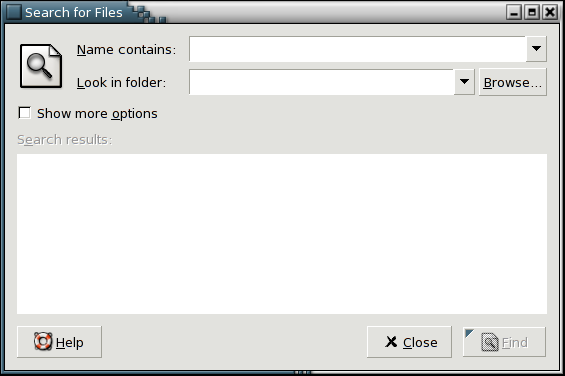
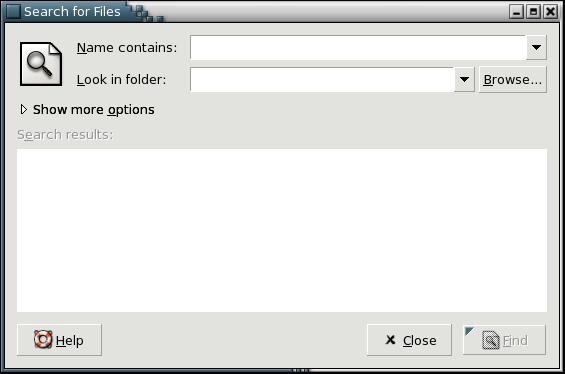
Use the new gtk expander widget.
2003-11-18  Dennis Cranston <dennis_cranston at yahoo com>

	* gsearchtool.[ch], gsearchtool-callbacks.[ch]: Use the
	new gtk expander widget.

	* help/C/figures/gnome-search-tool_window.png: Update
	accordingly.

diff --git a/gsearchtool.c b/gsearchtool.c
@@ -1305,7 +1305,7 @@ handle_search_command_stdout_io (GIOChannel 	*ioc,
 
 		gtk_window_set_default (GTK_WINDOW(interface.main_window), interface.find_button);
 		gtk_widget_set_sensitive (interface.additional_constraints, TRUE);
-		gtk_widget_set_sensitive (interface.checkbutton, TRUE);
+		gtk_widget_set_sensitive (interface.expander, TRUE);
 		gtk_widget_set_sensitive (interface.table, TRUE);
 		gtk_widget_set_sensitive (interface.find_button, TRUE);
 		gtk_widget_hide (interface.stop_button);
@@ -1488,7 +1488,7 @@ spawn_search_command (gchar *command)
 	gtk_widget_set_sensitive (interface.find_button, FALSE);
 	gtk_widget_set_sensitive (interface.results, TRUE);
 	gtk_widget_set_sensitive (interface.additional_constraints, FALSE);
-	gtk_widget_set_sensitive (interface.checkbutton, FALSE);
+	gtk_widget_set_sensitive (interface.expander, FALSE);
 	gtk_widget_set_sensitive (interface.table, FALSE);
 
 	gtk_tree_view_scroll_to_point (GTK_TREE_VIEW(interface.tree), 0, 0);
@@ -1617,7 +1617,7 @@ add_constraint (gint constraint_id, gchar *value, gboolean show_constraint)
 
 	if (show_constraint) {
 		if (GTK_WIDGET_VISIBLE (interface.additional_constraints) == FALSE) {
-			g_signal_emit_by_name (G_OBJECT(interface.checkbutton), "clicked", 0);
+			gtk_expander_set_expanded (GTK_EXPANDER (interface.expander), TRUE);
 			gtk_widget_show (interface.additional_constraints);
 		}
 	} 
@@ -1960,10 +1960,10 @@ create_main_window (void)
 	g_free (locale_string);
 	g_free (utf8_string);
 	
-	interface.checkbutton = gtk_check_button_new_with_mnemonic (_("Show more _options"));
-	gtk_box_pack_start (GTK_BOX(window), interface.checkbutton, FALSE, FALSE, 0);
-	g_signal_connect (G_OBJECT (interface.checkbutton),"clicked",
-			  G_CALLBACK (click_check_button_cb), NULL);
+	interface.expander = gtk_expander_new_with_mnemonic (_("Show more _options"));
+	gtk_box_pack_start (GTK_BOX(window), interface.expander, FALSE, FALSE, 0);
+	g_signal_connect (G_OBJECT (interface.expander),"notify::expanded",
+			  G_CALLBACK (click_expander_cb), NULL);
 			  
 	interface.additional_constraints = create_additional_constraint_section ();
 	gtk_box_pack_start (GTK_BOX(window), GTK_WIDGET(interface.additional_constraints), FALSE, FALSE, 0);
@@ -2187,7 +2187,7 @@ handle_gconf_settings (void)
 {
 	if (gsearchtool_gconf_get_boolean ("/apps/gnome-search-tool/show_additional_options")) {
 		if (GTK_WIDGET_VISIBLE (interface.additional_constraints) == FALSE) {
-			g_signal_emit_by_name (G_OBJECT(interface.checkbutton), "clicked", 0);
+			gtk_expander_set_expanded (GTK_EXPANDER (interface.expander), TRUE);
 			gtk_widget_show (interface.additional_constraints);
 		}
 	}

diff --git a/gsearchtool-callbacks.c b/gsearchtool-callbacks.c
@@ -119,10 +119,10 @@ help_cb (GtkWidget 	*widget,
 }
 
 void
-click_check_button_cb (GtkWidget	*widget, 
-	       	       gpointer 	data)
+click_expander_cb (GtkWidget	*widget, 
+	       	   gpointer 	data)
 {
-	if (gtk_toggle_button_get_active (GTK_TOGGLE_BUTTON (widget))) {
+	if (gtk_expander_get_expanded (GTK_EXPANDER (widget))) {
 		gtk_widget_show (interface.additional_constraints);
 		gtk_window_set_geometry_hints (GTK_WINDOW (interface.main_window), 
 		                               GTK_WIDGET (interface.main_window),

diff --git a/gsearchtool.h b/gsearchtool.h
@@ -98,7 +98,7 @@ struct _InterfaceStruct {
 	GdkPixbuf		*pixbuf;	
 	GtkWidget		*table;	
 	GtkWidget 		*file_selector;
-	GtkWidget		*checkbutton;
+	GtkWidget		*expander;
 	GtkWidget		*add_button;
 	GtkWidget 		*additional_constraints;
 	GtkWidget		*constraint_menu;

diff --git a/gsearchtool-callbacks.h b/gsearchtool-callbacks.h
@@ -50,7 +50,7 @@ void
 click_stop_cb 			(GtkWidget 	*widget, 
 	       			 gpointer 	data);
 void
-click_check_button_cb		(GtkWidget	*widget, 
+click_expander_cb		(GtkWidget	*widget, 
 				 gpointer 	data);
 void   
 size_allocate_cb 		(GtkWidget 	*widget,
